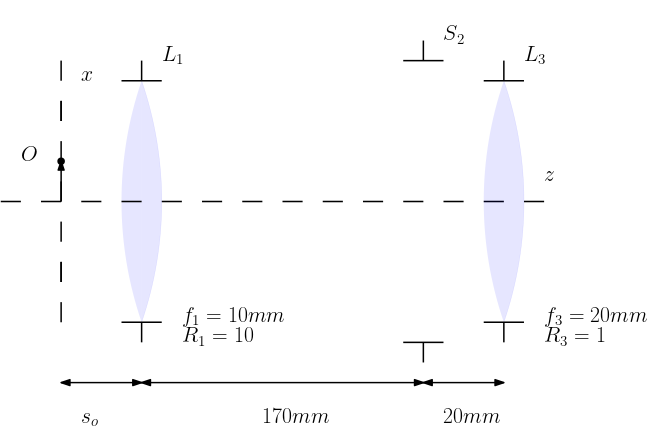
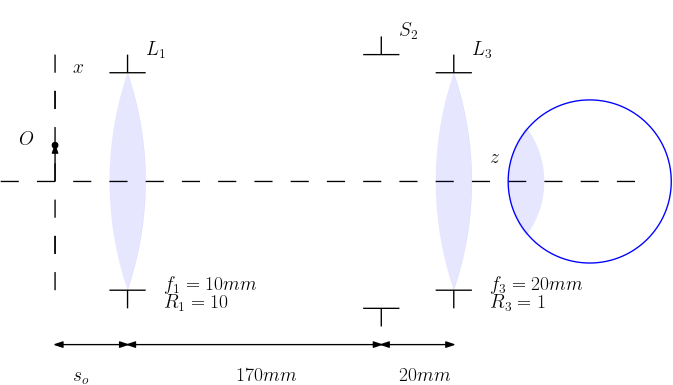
added eye to hw2 p2

diff --git a/hw02sol.tex b/hw02sol.tex
@@ -68,7 +68,7 @@ and the ray transfer matrix for $L_2$ is
 \end{bmatrix}
 \end{equation}
 
-which through substitution form
+substitution of matrix \ref{} into matrix \ref{} results in
 
 \begin{equation}
 \begin{bmatrix}
@@ -189,20 +189,28 @@ Simplify with the knowledge that for the outgoing ray bundle from the second len
 
 \newpage
 
-\textbf{Q\&A} What is the optical power of this composite optical system and effective focal length? What is the effective focal length? What is the effective focal length? What is the value of the optical power for $d=f1+f2$? \textbf{Hint:} RTM?\\
+\textbf{Q\&A} What is the optical power of this composite optical system and effective focal length (also referred to as \textbf{element focal length})? What is the value of the optical power for $d=f1+f2$? \textbf{Hint:} RTM?\\
 
-\textbf{Q\&A} What are the propagation angle $\alpha_2$ and width $a_2$ of this outgoing ray bundle? \\
+Optical power is equal to the reciprocal of the focal length of the device $P=\frac{1}{f}$. The element focal length for a two lens system is defined as $EFL = \frac{f_1 \times f_2}{f_1 + f_2 - d}$ $\therefore$ the optical power of a two lens system is defined as $P=\frac{f_1 + f_2 -d}{f_1 \times f_2}$ and $\therefore$ the optical power for $d=f_1 + f_2$ is shown to be $P=\frac{f_1 + f_2 - (f_1 + f_2)}{f_1 \times f_2} = 0$\\
+
+\textbf{Q\&A} What are the propagation angle $\alpha_2$ and width $a_2$ (defined as $x_2$ in the figure \ref{fig:2_1} and matrices) of this outgoing ray bundle? \\
+
+$\alpha_2$ and width(z in Joseph Crandall's coordinate system) $z_2$ are spatially indicated in figure \ref{fig:2_1}.\\
 
 \textbf{Q\&A} What are the angular and lateral magnifications?\\
 
+The angular magnification is defined as $M_A = \frac{-s_o}{s_1}$ and the lateral magnification (sometimes called linear or transverse) is defined as $M_T = \frac{-s_i}{s_o}$. $s_o$ and $s_i$ are indicated spatially in figure \ref{fig:2_1}\\
+
 \textbf{Q\&A} How is the image (virtual, real), what about the object? (Please point them out)\\
+
+Object $O$ and image $I$ are spatially indicated in figure \ref{fig:2_1}. The collimated rays are incident from $\infty$ at object $O$ and the collimated rays create a real image at $\infty$ at $I$. 
 
 
 \newpage
 
 \begin{figure}
 \centering\fbox{\includegraphics[height=2.0in]{figures/hw2/hw2_2.png}}
-\caption{Two lenses}
+\caption{Spatial Relationships between lens, aperture, lens, eye}
 \label{fig:2_2}
 \end{figure}
 
@@ -210,6 +218,8 @@ Simplify with the knowledge that for the outgoing ray bundle from the second len
 The optical instrument shown below consists of 2 lenses $L_1$, $L_3$ and an aperture stop $S_2$ and the observer's eye is located to the right of $L_3$. Symbols $\{f_1 , R_1\}$ , $\{f_3 , R_3\}$ represent the focal lengths and radii of $L_1$, $L_3$, respectively, and $R_2$ is the radius of $S_2$ \ref{fig:2_2}.\\
 
 \textbf{Q\&A} Determine the object distance so that a human observer's unaccommodating eye (no strain for focusing) can focus the image on the observer's retina. \textbf{Hint:} this means outgoing parallel ray bundle from $L_3$, which means that lens $1 ...$\\
+
+... must have incident object $O$ at $\infty$. \\
 
 \textbf{Q\&A} What is the instrument use and what is the magnifying power? \textbf{Hint:} small object viewed by an eye
 

diff --git a/main.tex b/main.tex
@@ -12,8 +12,8 @@
 \begin{document}
 \maketitle
 
-#\section{Solution to homework 01}
-#\subfile{hw01sol.tex}
+%#\section{Solution to homework 01}
+%#\subfile{hw01sol.tex}
 
 \section{Solution to homework 02}
 \subfile{hw02sol.tex}
